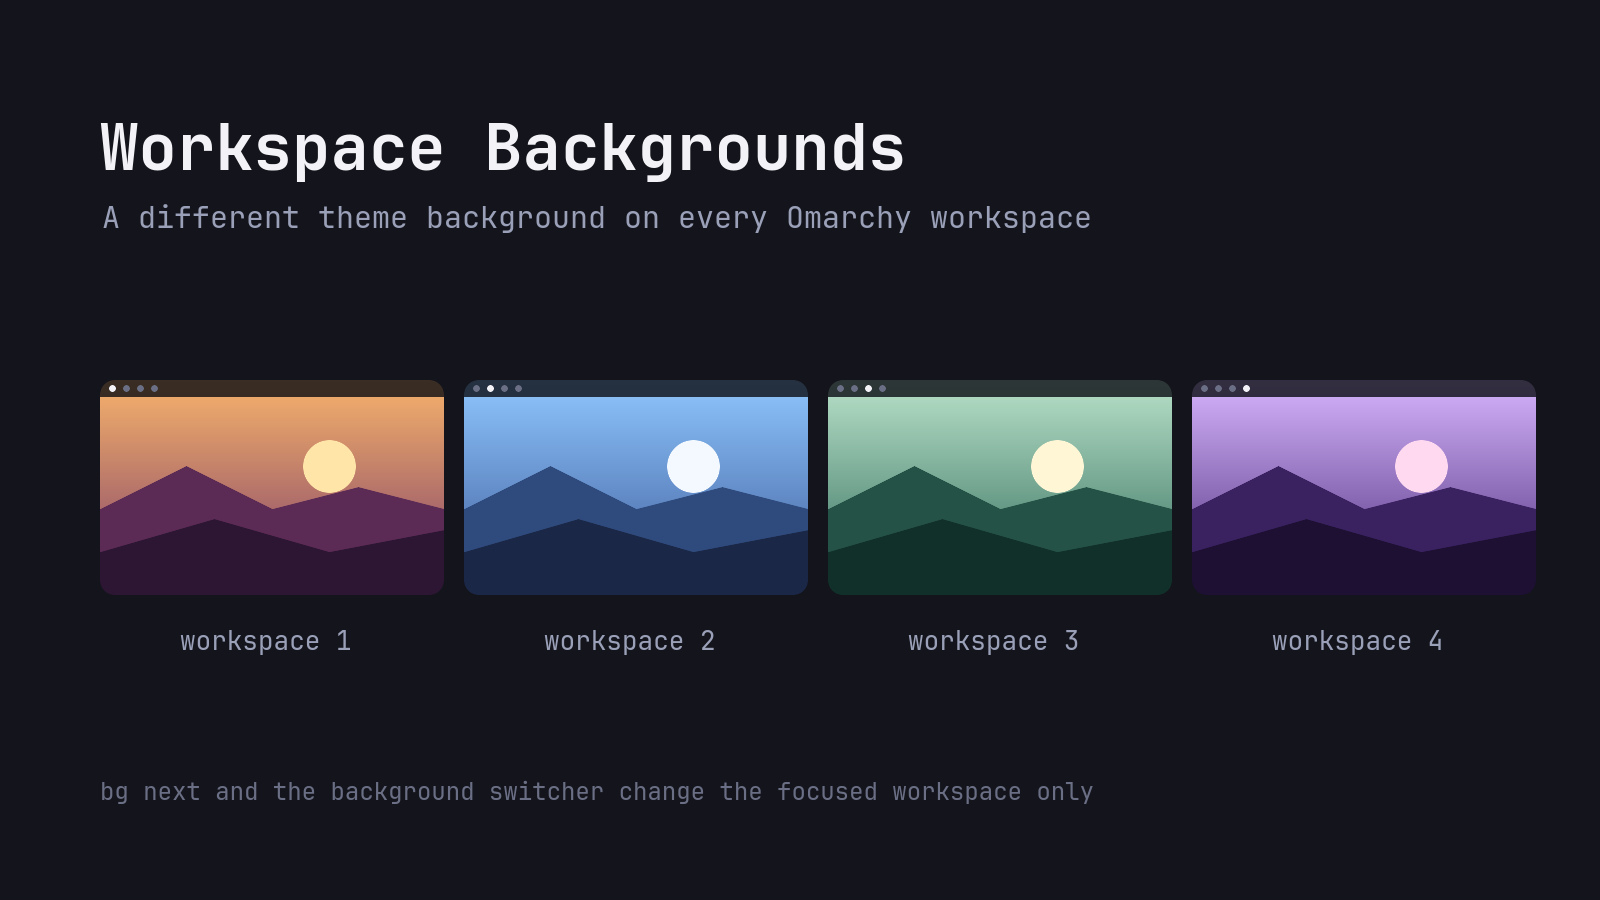
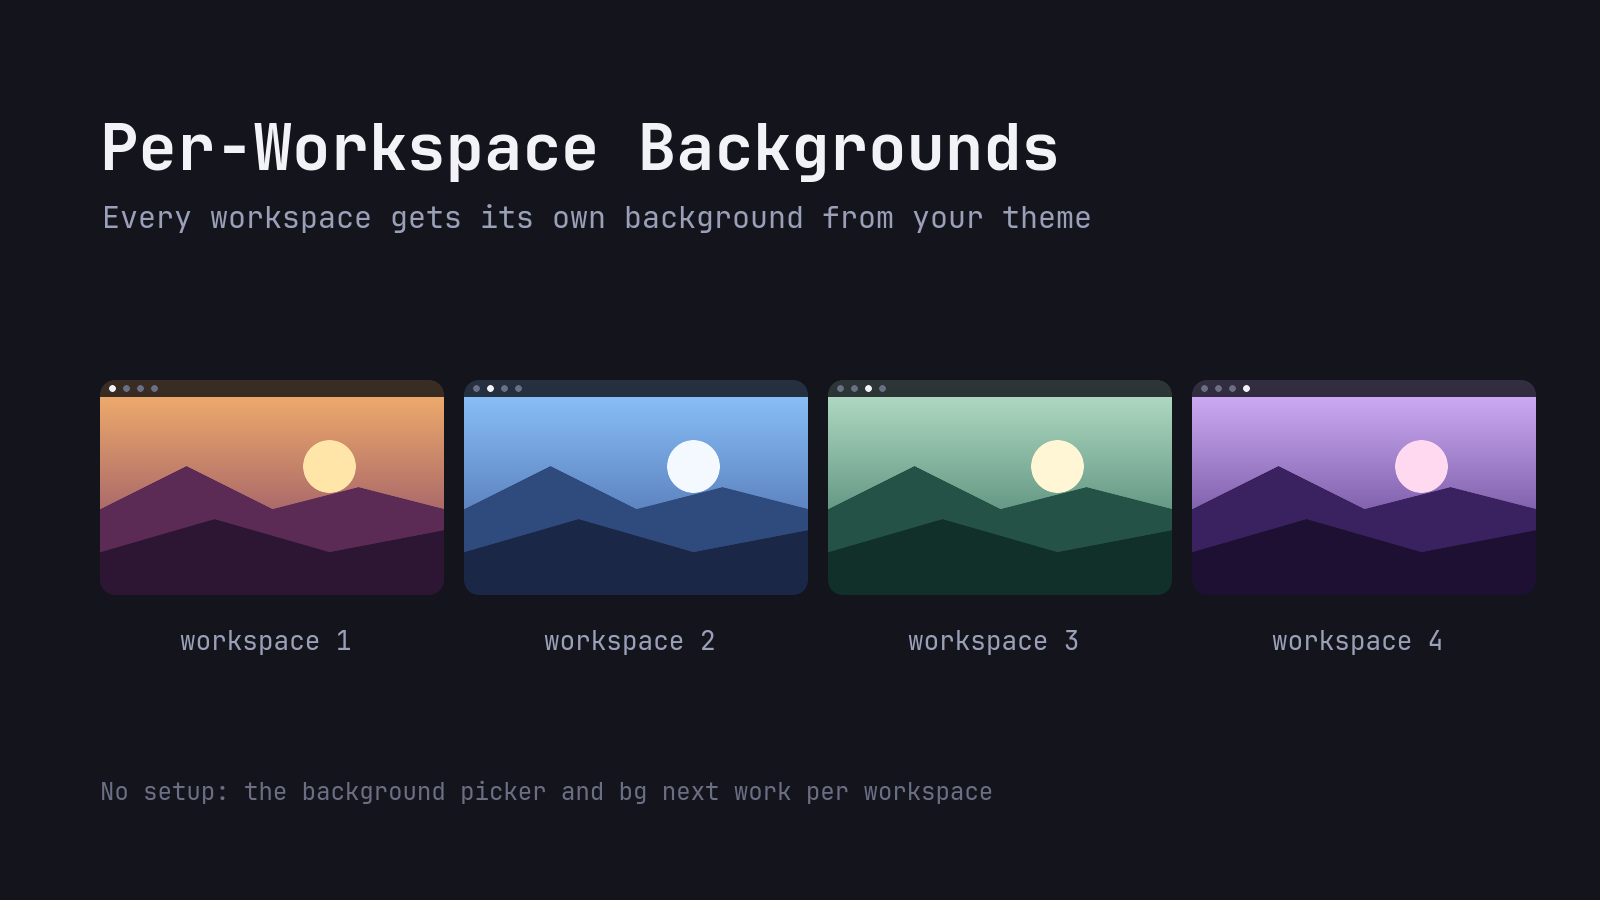
refactor: rename the plugin to Per-Workspace Backgrounds
The one thing that sets the plugin apart from Omarchy's built-in
renderer is that every workspace gets its own background, so the name
now says so, in the words of the upstream idea it answers. The plugin id
becomes manyfold.per-workspace-backgrounds and the repository
omarchy-per-workspace-backgrounds; the state file and the copy cache
take the same name. The manifest description and the preview lead with
what the plugin gives you instead of how it works.

Changed region(s): [[0.0625, 0.1244, 0.6875, 0.28], [0.0625, 0.8711, 0.375, 0.9022], [0.4062, 0.8711, 0.6875, 0.9022]]

diff --git a/Background.qml b/Background.qml
@@ -26,7 +26,7 @@ Item {
   readonly property string home: Quickshell.env("HOME")
   readonly property string stateHome: home + "/.local/state"
   readonly property string currentBackgroundLink: stateHome + "/omarchy/current/background"
-  readonly property string statePath: stateHome + "/omarchy/workspace-backgrounds.json"
+  readonly property string statePath: stateHome + "/omarchy/per-workspace-backgrounds.json"
 
   // The mapping (see Model.js), ready once the first scan and the saved state
   // are both in.
@@ -39,7 +39,7 @@ Item {
   // Screen-size copies of the backgrounds ("WxH|path" -> copy), filled in by
   // screen-copies.sh as each copy is ready. A switch then decodes a few
   // megapixels instead of the full file.
-  readonly property string copiesDir: (Quickshell.env("XDG_CACHE_HOME") || home + "/.cache") + "/omarchy/workspace-backgrounds"
+  readonly property string copiesDir: (Quickshell.env("XDG_CACHE_HOME") || home + "/.cache") + "/omarchy/per-workspace-backgrounds"
   readonly property string copiesScript: decodeURIComponent(String(Qt.resolvedUrl("screen-copies.sh")).replace(/^file:\/\//, ""))
   property var screenCopies: ({})
   property bool copiesQueued: false

diff --git a/README.md b/README.md
@@ -1,4 +1,4 @@
-# Workspace Backgrounds
+# Per-Workspace Backgrounds
 
 Every [Omarchy](https://omarchy.org) theme ships with a whole set of [backgrounds](https://omarchy.org/manual/backgrounds/), yet you only ever see one of them: every workspace looks the same, and the rest of the set waits in a folder. This plugin gives each workspace its own background. Switch workspaces and the background turns over with Omarchy's own reveal, so you know where you are before you read the bar -- and the whole set your theme came with finally gets used.
 
@@ -11,7 +11,7 @@ There is nothing to set up. Workspace N shows the theme's Nth background, and th
 ## Install
 
 ```bash
-omarchy plugin add https://github.com/manyfold-dk/omarchy-workspace-backgrounds.git --enable
+omarchy plugin add https://github.com/manyfold-dk/omarchy-per-workspace-backgrounds.git --enable
 ```
 
 Omarchy shows you the URL and asks before it adds a plugin from git; see [Adding a plugin from git](https://omarchy.org/manual/shell-plugins/#adding-a-plugin-from-git) in the Omarchy manual. Enabling this plugin switches off the built-in background renderer, `omarchy.background`.
@@ -30,14 +30,14 @@ Omarchy shows you the URL and asks before it adds a plugin from git; see [Adding
 
 The plugin uses the backgrounds `omarchy theme bg next` cycles through, in the same order: the theme's own `backgrounds/` folder plus your extras in `~/.config/omarchy/backgrounds/<theme>/`, sorted by file name. The [Backgrounds](https://omarchy.org/manual/backgrounds/) page of the manual shows how to add extras. Number prefixes (`1-...`, `2-...`) decide which workspace gets which. With more workspaces than backgrounds, the list wraps around: on a theme with four backgrounds, workspace 5 shows the first one again.
 
-The plugin keeps its state in `~/.local/state/omarchy/workspace-backgrounds.json`: the theme it applies to and the backgrounds you picked per workspace. Omarchy's `~/.local/state/omarchy/current/background` link follows the focused workspace.
+The plugin keeps its state in `~/.local/state/omarchy/per-workspace-backgrounds.json`: the theme it applies to and the backgrounds you picked per workspace. Omarchy's `~/.local/state/omarchy/current/background` link follows the focused workspace.
 
 ## Remove
 
 ```bash
-omarchy plugin remove manyfold.workspace-backgrounds
-rm -f ~/.local/state/omarchy/workspace-backgrounds.json
-rm -rf ~/.cache/omarchy/workspace-backgrounds
+omarchy plugin remove manyfold.per-workspace-backgrounds
+rm -f ~/.local/state/omarchy/per-workspace-backgrounds.json
+rm -rf ~/.cache/omarchy/per-workspace-backgrounds
 ```
 
 Removing the plugin switches the built-in background renderer back on. To keep the plugin installed but use the built-in renderer for a while, see [Turning them on and off](https://omarchy.org/manual/shell-plugins/#turning-them-on-and-off).
@@ -61,7 +61,7 @@ The plugin is derived from Omarchy's own [background plugin](https://github.com/
 Measured on a MacBook Pro (13-inch, 2020: Intel Core i5-1038NG7, Iris Plus Graphics G7, 16 GB) with its 2560x1600 display, running Omarchy 4.0 on Arch Linux with Hyprland 0.56, Quickshell 0.3 and Qt 6.11. The theme was [Starship](https://github.com/omacom/omarchy/tree/quattro/themes/starship), whose backgrounds are WebP files from 6016x3384 to 8192x5461. CPU is the shell process's time over eight workspace switches, minus the same stretch idle.
 
 - **On a switch** the plugin decodes a screen-size copy of the incoming background and plays the reveal. The built-in renderer does nothing on a switch, because it shows the same background everywhere.
-- **The copies** are made in the background, at low priority, the first time a theme is used: a few seconds for Starship's four files. They live in `~/.cache/omarchy/workspace-backgrounds/`, about 1 MB per background per screen size (JPEG, or PNG for images with transparency), named by their content, and are deleted after 30 days unused -- also those of a theme you removed, since removing a theme does not touch the cache. Deleting the folder yourself is safe at any time: the plugin falls back to the original files and makes the copies again. A background no larger than the screen gets no copy; it is cheap to decode as it is.
+- **The copies** are made in the background, at low priority, the first time a theme is used: a few seconds for Starship's four files. They live in `~/.cache/omarchy/per-workspace-backgrounds/`, about 1 MB per background per screen size (JPEG, or PNG for images with transparency), named by their content, and are deleted after 30 days unused -- also those of a theme you removed, since removing a theme does not touch the cache. Deleting the folder yourself is safe at any time: the plugin falls back to the original files and makes the copies again. A background no larger than the screen gets no copy; it is cheap to decode as it is.
 - **Until a copy is ready**, right after a theme is used for the first time, a switch decodes the full-size file instead: about 0.3 s of CPU with Starship on the machine above.
 - **Several monitors** each decode for their own screen, with copies per screen size.
 
